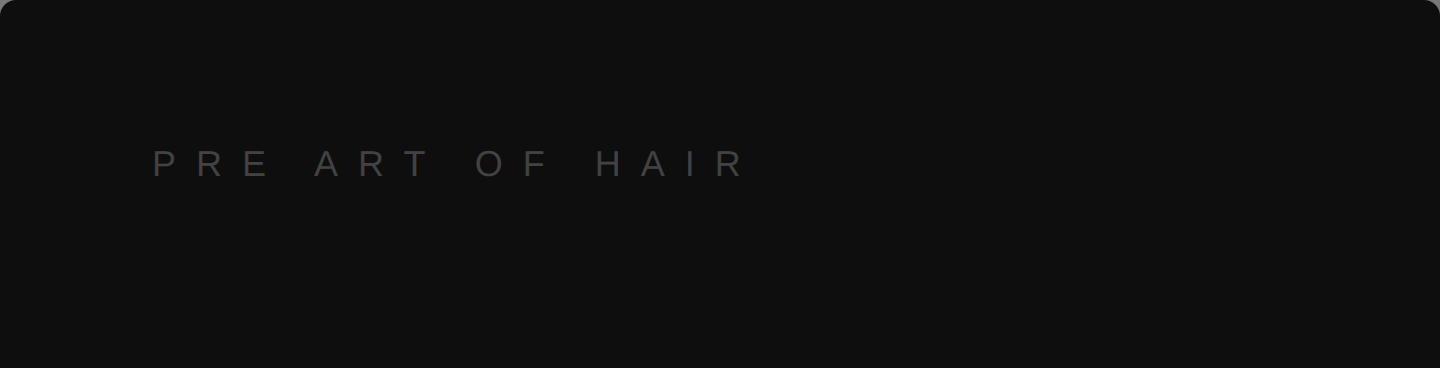
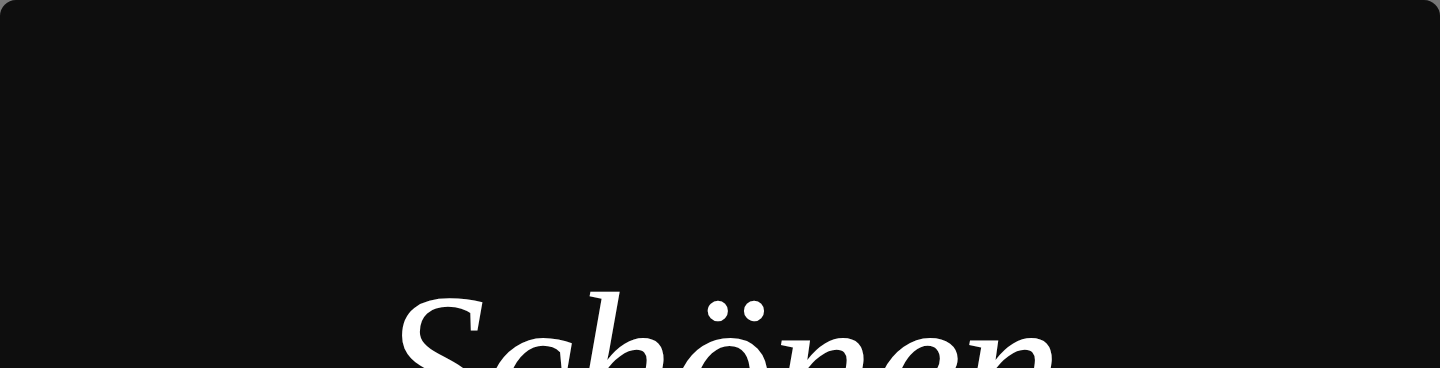
Simplify closing slide: centered Schönen Start message
Claude-Session: https://claude.ai/code/session_01BaC8m9wAmbtKccXQSCmnYc

diff --git a/carousel-weekly-update.html b/carousel-weekly-update.html
@@ -214,25 +214,28 @@
       background: #0e0e0e;
       display: flex;
       flex-direction: column;
-      justify-content: space-between;
+      align-items: center;
+      justify-content: center;
       padding: 36px 38px 42px;
-    }
-
-    .s4 .top {
-      font-size: 9px; letter-spacing: 5px; text-transform: uppercase;
-      color: rgba(255,255,255,0.22);
+      text-align: center;
     }
 
     .s4 .closing {
       font-family: 'Cormorant Garamond', serif;
       font-style: italic; font-weight: 300;
-      font-size: 54px; color: #fff;
-      line-height: 1.08; letter-spacing: -1px;
+      font-size: 52px; color: #fff;
+      line-height: 1.1; letter-spacing: -1px;
     }
 
-    .s4 .bottom {
-      font-size: 9px; letter-spacing: 4px; text-transform: uppercase;
-      color: rgba(255,255,255,0.20);
+    .s4 .divider {
+      width: 36px; height: 1px;
+      background: rgba(255,255,255,0.15);
+      margin: 22px auto;
+    }
+
+    .s4 .sub {
+      font-size: 9px; letter-spacing: 5px; text-transform: uppercase;
+      color: rgba(255,255,255,0.22);
     }
   </style>
 </head>
@@ -287,9 +290,9 @@
 
   <!-- Slide 4: Closing -->
   <div class="slide s4">
-    <div class="top">PRE Art of Hair</div>
     <div class="closing">Schönen<br>Start in<br>die Woche.</div>
-    <div class="bottom">KW 28 · Juli 2026</div>
+    <div class="divider"></div>
+    <div class="sub">PRE Art of Hair</div>
     <div class="pre-mark">PRE</div>
   </div>
 
